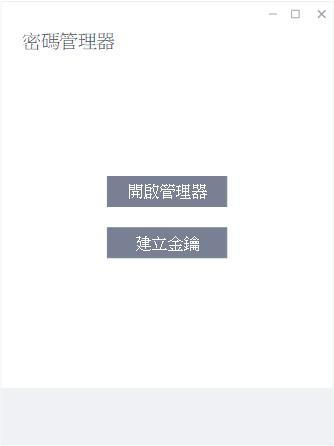
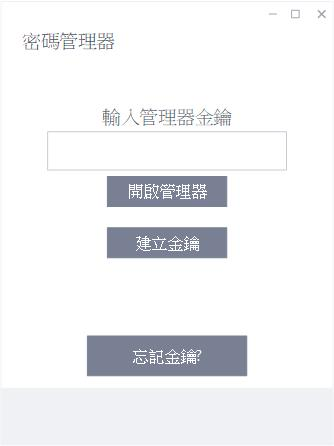
readMe

diff --git a/README.md b/README.md
@@ -14,13 +14,32 @@ java8以上
 - 複製密碼過久自動清除
 
 
-## 使用介面
+## 使用介面操作方法
+### 選單
+於輸入金鑰處填入金鑰再點擊開啟管理器，可進入管理器畫面．
+若尚未有金鑰，點選建立金鑰產生一組金鑰供管理器進行加解密．
 ![選單](readmeImage/menu.jpg "選單")
-
-![管理器畫面](readmeImage/insidePage.jpg "管理器畫面")
-
+### 金鑰產生器
+進入金鑰產生器後，填入安全性問題的答案後，點擊確認產生金鑰，
+並退回選單，金鑰會自動填入選單的金鑰輸入欄中，請記住該組金鑰
+以供未來進行操作．
+- 註: 記住安全性問題的答案以供未來忘記金鑰時可取回金鑰．
 ![產生key](readmeImage/KeyMaker.jpg "產生key")
-
+### 管理器畫面
+進入管理器後點擊右上角檔案項目點選開啟資料夾載入資料夾下的所有
+密碼檔案，只有能夠以金鑰解碼的檔案會被開啟．
+使用時可利用滾輪捲軸尋找欲使用的密碼檔案，也可利用上方搜尋欄填入名稱
+進行搜尋．
+預設的密碼顯示為遮罩過的結果，使用時點選複製密碼或是顯示密碼操作
+兩個文字顯示欄中上方的為帳號，而下方為密碼．
+若要加入產生密碼檔案，可點選下方密碼產生器．
+![管理器畫面](readmeImage/insidePage.jpg "管理器畫面")
+### 密碼產生器
+進入密碼產生器後，若已有密碼，可直接填入密碼欄位，將檔案名稱及帳號欄位
+填入後即可點擊下方返回並保存，管理器會將這個檔案加密保存．
+若還未有密碼，講檔案名稱及帳號欄位填入後，可根據要求選擇產生密碼的規範，
+填入需求的密碼長度後按下產生密碼即可生成一組密碼於密碼欄位，可按下顯示密碼
+查看生成的密碼或是修改規範重新生成密碼，完成後點選返回並保存將密碼檔案保存．
 ![密碼產生](readmeImage/pwdGenerater.jpg "密碼產生")
 
 ## 待辦事項
